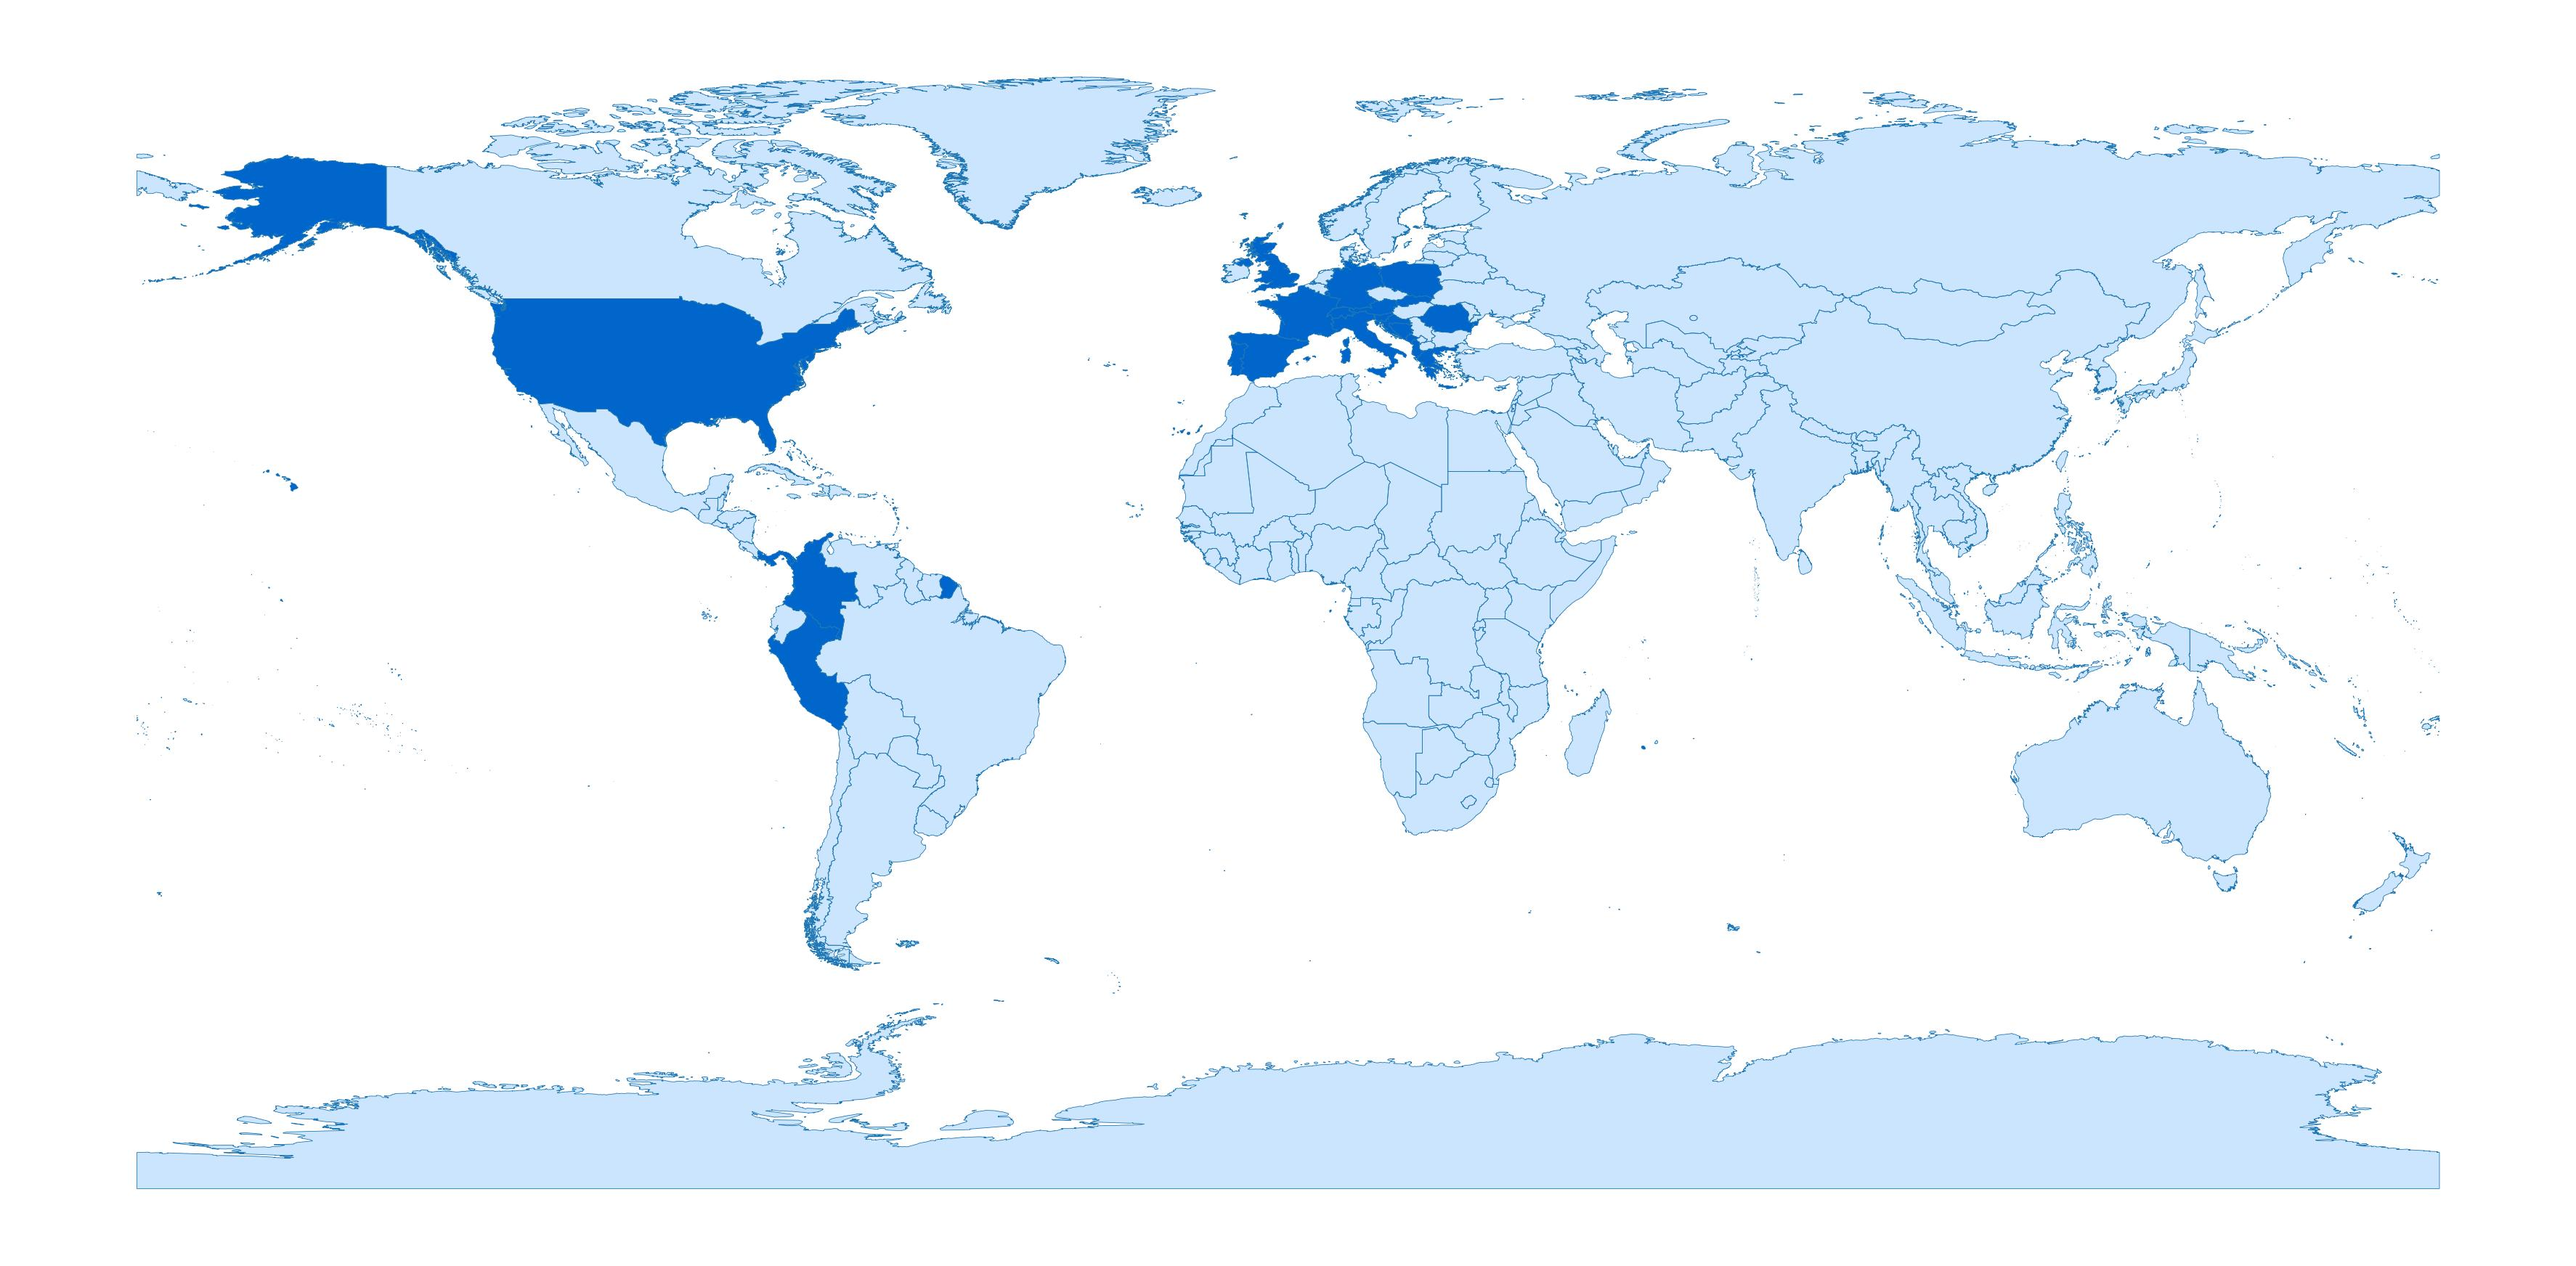
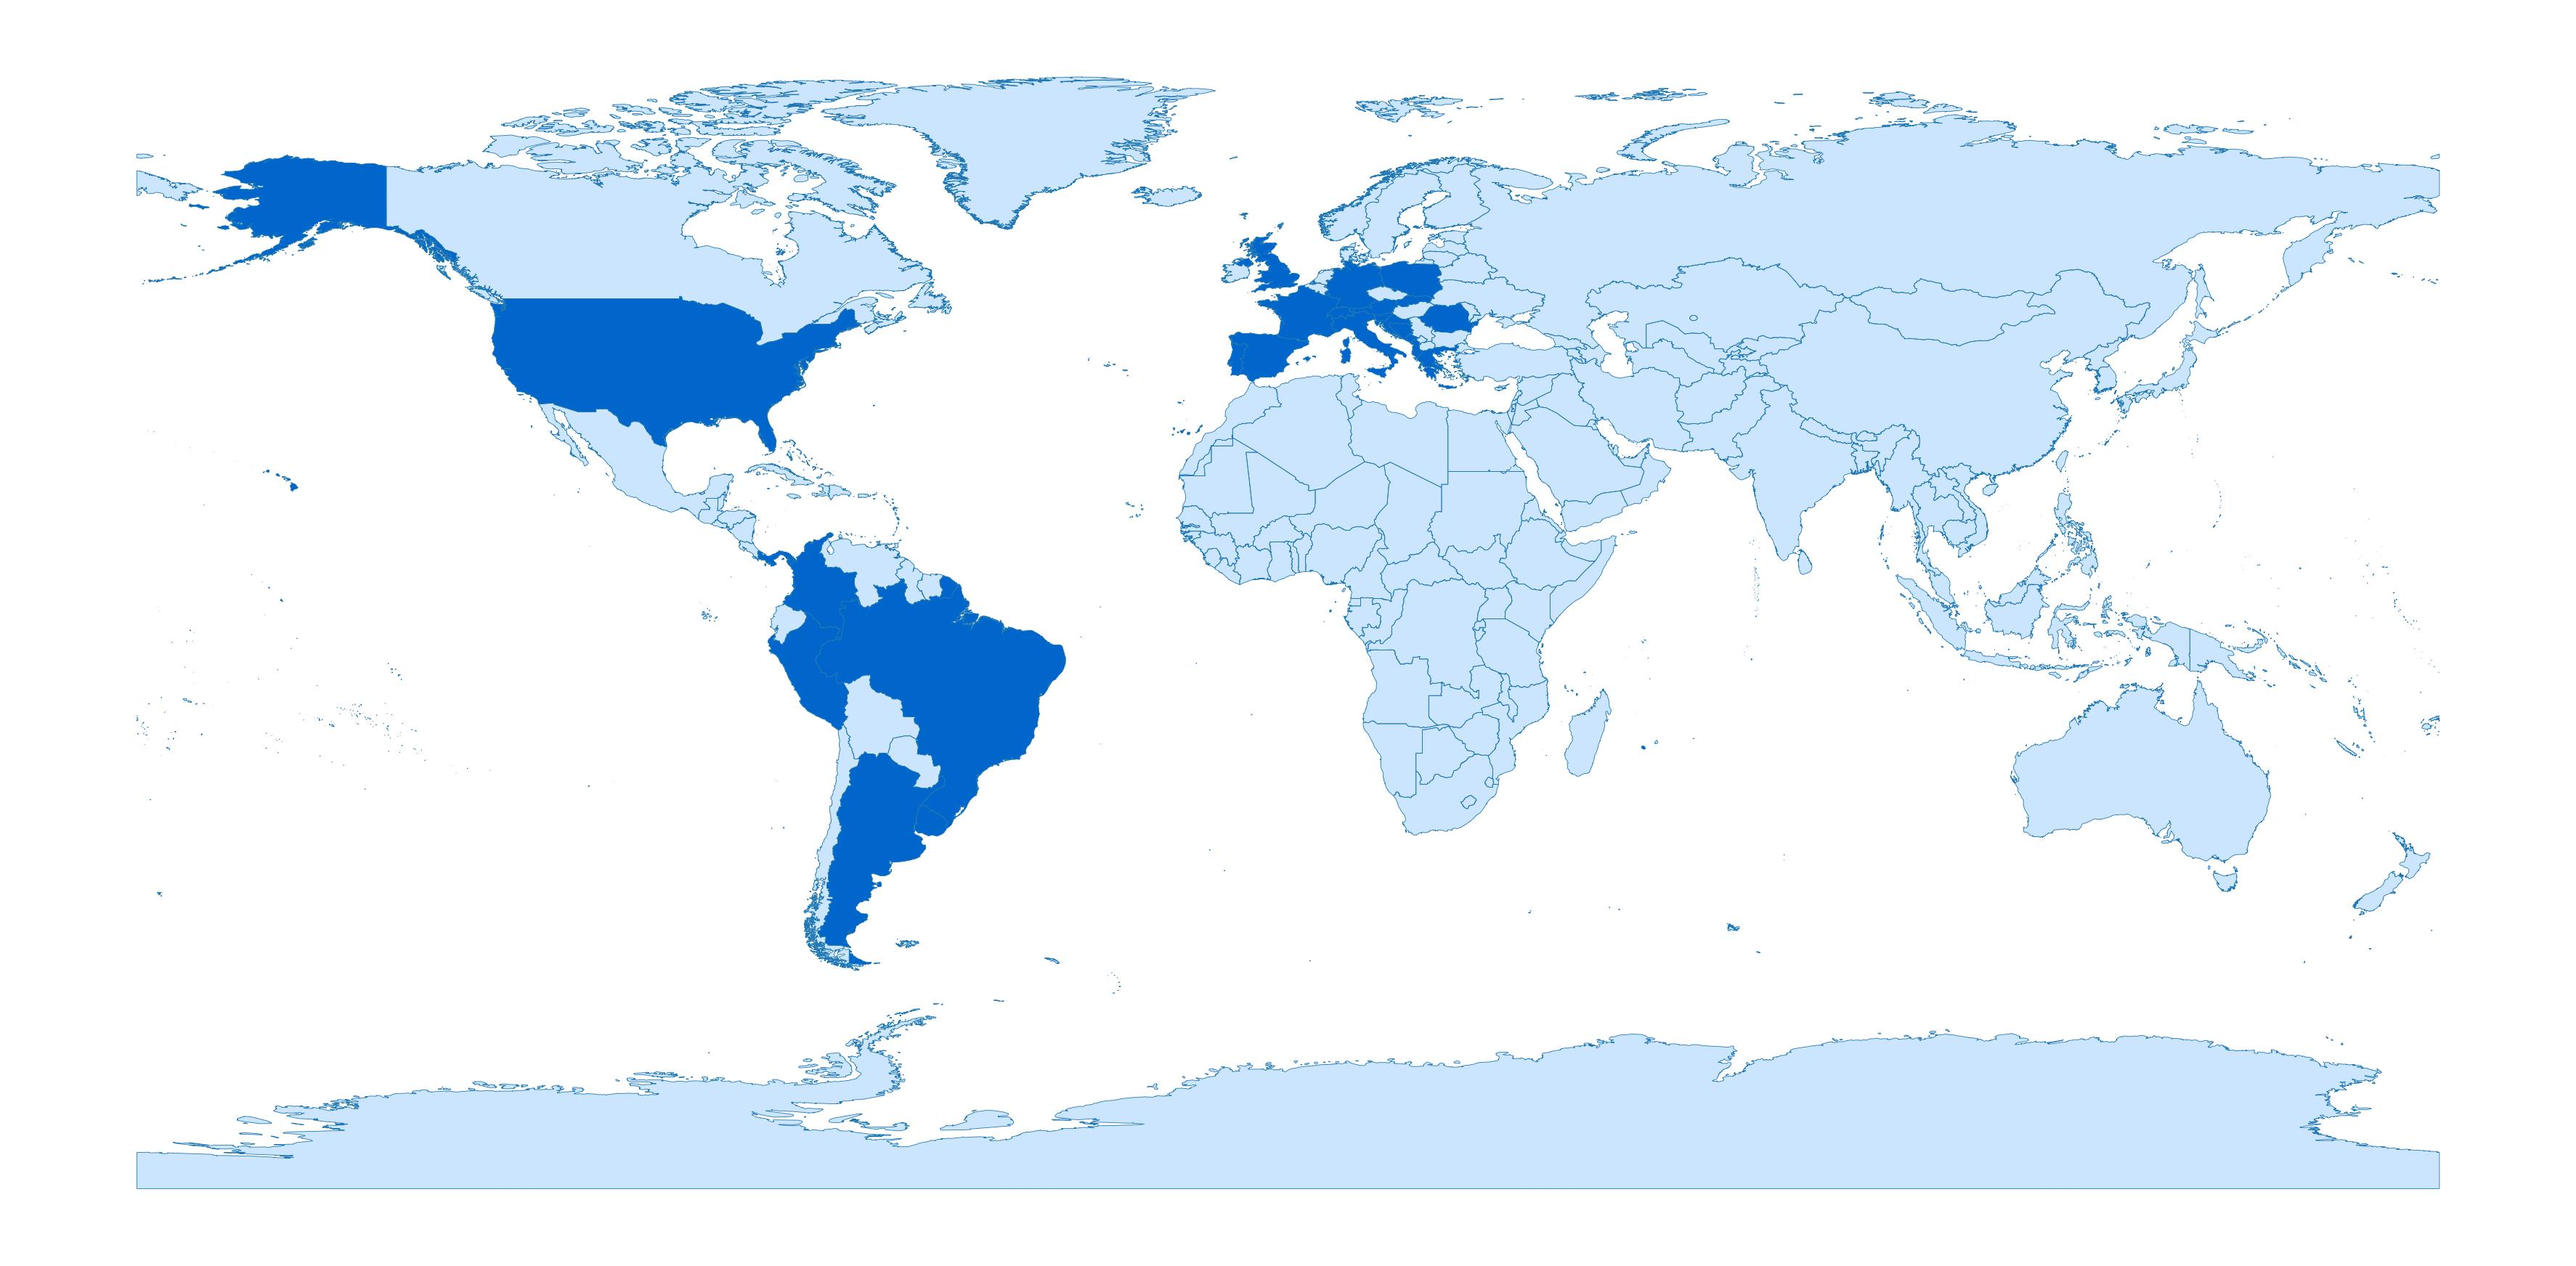
Add Brazil 2025

Changed region(s): [[0.3101, 0.4644, 0.4342, 0.7431]]

diff --git a/travel/022025_poland.html b/travel/022025_poland.html
@@ -1,7 +1,7 @@
 
 <html>
     <header>
-        <title>Le Travel Bug - Poland - February 2025 </title>
+        <title>Le Travel Bug - Rio de Janeiro, Brazil - April 2025 </title>
         <link rel="stylesheet" href="style.css">
         <meta name="viewport" content="width=device-width, initial-scale=1.0">
     </header>
@@ -19,7 +19,7 @@
         <select onchange="this.form.action=this.value; this.form.submit()">
             <option disabled selected>More travels</option>
     
-        <option value='022025_poland.html'>Poland - February 2025</option>
+        <option value='022025_poland.html'>Rio de Janeiro, Brazil - April 2025</option>
         
         <option value='012025_london.html'>London - January 2025</option>
         
@@ -59,69 +59,57 @@
         
         <option value='022018_vienna_bratislava.html'>Vienna and Bratislava - February 2018</option>
         </select></form> </div>
-        <h2>Poland - February 2025</h2>
+        <h2>Rio de Janeiro, Brazil - April 2025</h2>
         <div>
             <div class="image-container">
-                <img src="img/2025/poland/1.JPG" />
+                <img src="img/2025/brazil/1.jpg" />
             </div>    
         
             <div class="image-container">
-                <img src="img/2025/poland/2.JPG" />
+                <img src="img/2025/brazil/2.jpg" />
             </div>    
         
             <div class="image-container">
-                <img src="img/2025/poland/3.JPG" />
+                <img src="img/2025/brazil/3.jpg" />
             </div>    
         
             <div class="image-container">
-                <img src="img/2025/poland/4.JPG" />
+                <img src="img/2025/brazil/4.jpg" />
             </div>    
         
             <div class="image-container">
-                <img src="img/2025/poland/5.JPG" />
+                <img src="img/2025/brazil/5.jpg" />
             </div>    
         
             <div class="image-container">
-                <img src="img/2025/poland/6.JPG" />
+                <img src="img/2025/brazil/6.jpg" />
             </div>    
         
             <div class="image-container">
-                <img src="img/2025/poland/7.JPG" />
+                <img src="img/2025/brazil/7.jpg" />
             </div>    
         
             <div class="image-container">
-                <img src="img/2025/poland/8.JPG" />
+                <img src="img/2025/brazil/8.jpg" />
             </div>    
         
             <div class="image-container">
-                <img src="img/2025/poland/9.JPG" />
+                <img src="img/2025/brazil/9.jpg" />
             </div>    
         
             <div class="image-container">
-                <img src="img/2025/poland/10.JPG" />
+                <img src="img/2025/brazil/10.jpg" />
             </div>    
         
             <div class="image-container">
-                <img src="img/2025/poland/11.JPG" />
+                <img src="img/2025/brazil/11.jpg" />
             </div>    
         
             <div class="image-container">
-                <img src="img/2025/poland/12.JPG" />
-            </div>    
-        
-            <div class="image-container">
-                <img src="img/2025/poland/13.JPG" />
-            </div>    
-        
-            <div class="image-container">
-                <img src="img/2025/poland/14.JPG" />
-            </div>    
-        
-            <div class="image-container">
-                <img src="img/2025/poland/15.JPG" />
+                <img src="img/2025/brazil/12.jpg" />
             </div>    
         </div>
-        <div class="story"><h2>Four Days in Poland: February 2025</h2> <p>In February 2025, we spent four incredible days in <strong>Poland</strong>, immersing ourselves in history, culture, and gastronomy. Our journey began in <strong>Kraków</strong>, where we explored the historic <strong>Jewish Quarter</strong>, admired the stunning architecture of the <strong>Old Town</strong>, and visited the magnificent <strong>Wawel Castle</strong>, where we encountered the legendary <strong>Smoking Dragon</strong>. We also visited some of Kraków’s fascinating museums, diving into the city's rich past. The following day, we ventured underground to the mesmerizing <strong>Wieliczka Salt Mines</strong>, before witnessing the powerful history of <strong>Auschwitz</strong> and <strong>Birkenau</strong>.</p> <p>Our trip continued in <strong>Katowice</strong>, where we explored its mix of industrial heritage and modern art, including visits to some of the city's museums. Along the way, we indulged in incredible Polish cuisine, from traditional pierogi to hearty local specialties, making this trip an unforgettable blend of culture, history, and flavors.</p></div>
+        <div class="story"><h2>10 Days in Rio de Janeiro: A Sun-Soaked Escape</h2> <p>We spent 10 unforgettable days in <strong>Rio de Janeiro</strong>, soaking up the vibrant spirit of the city. From relaxing on the iconic beaches of <strong>Copacabana</strong> and <strong>Ipanema</strong> to witnessing a magical <strong>sunrise at Cristo Redentor</strong>, our trip was packed with memorable moments. We explored the lush <strong>Parque Lage</strong>, admired the colorful <strong>Escadaria Selarón</strong>, rode the cable car to <strong>Pão de Açúcar</strong>, and strolled through charming <strong>Urca</strong>. One evening, we enjoyed an authentic <strong>samba show on Rua do Ouvidor</strong>, immersing ourselves in Rio’s musical soul. Throughout the trip, we delighted in incredible food at local <strong>botecos</strong> and restaurants, and took time to unwind with several laid-back days by the sea.</p></div>
     
         <div>
             <h5>Le Travel Bug - 2025</h5>

diff --git a/travel/index.html b/travel/index.html
@@ -16,9 +16,9 @@
     
                 <div class="index-photo-container mt-10">
                     <div class="index-photo-element ta-c" onclick="location.href='022025_poland.html';" style="cursor: pointer;">
-                        <img class="index-photo" src="img/2025/poland/1.JPG"/>
-                        <h3 class="mb-5"> Poland </h3>
-                        <h6 class="mt-5"> February 2025 </h6>   
+                        <img class="index-photo" src="img/2025/brazil/1.jpg"/>
+                        <h3 class="mb-5"> Rio de Janeiro, Brazil </h3>
+                        <h6 class="mt-5"> April 2025 </h6>   
                     </div>
                     <div class="index-photo-element ta-c" onclick="location.href='012025_london.html';" style="cursor: pointer;">
                         <img class="index-photo" src="img/2025/london/6.JPG"/>

diff --git a/travel/012025_london.html b/travel/012025_london.html
@@ -19,7 +19,7 @@
         <select onchange="this.form.action=this.value; this.form.submit()">
             <option disabled selected>More travels</option>
     
-        <option value='022025_poland.html'>Poland - February 2025</option>
+        <option value='022025_poland.html'>Rio de Janeiro, Brazil - April 2025</option>
         
         <option value='012025_london.html'>London - January 2025</option>
         

diff --git a/travel/022018_vienna_bratislava.html b/travel/022018_vienna_bratislava.html
@@ -19,7 +19,7 @@
         <select onchange="this.form.action=this.value; this.form.submit()">
             <option disabled selected>More travels</option>
     
-        <option value='022025_poland.html'>Poland - February 2025</option>
+        <option value='022025_poland.html'>Rio de Janeiro, Brazil - April 2025</option>
         
         <option value='012025_london.html'>London - January 2025</option>
         

diff --git a/travel/022020_paris.html b/travel/022020_paris.html
@@ -19,7 +19,7 @@
         <select onchange="this.form.action=this.value; this.form.submit()">
             <option disabled selected>More travels</option>
     
-        <option value='022025_poland.html'>Poland - February 2025</option>
+        <option value='022025_poland.html'>Rio de Janeiro, Brazil - April 2025</option>
         
         <option value='012025_london.html'>London - January 2025</option>
         

diff --git a/travel/022024_luxembourg.html b/travel/022024_luxembourg.html
@@ -19,7 +19,7 @@
         <select onchange="this.form.action=this.value; this.form.submit()">
             <option disabled selected>More travels</option>
     
-        <option value='022025_poland.html'>Poland - February 2025</option>
+        <option value='022025_poland.html'>Rio de Janeiro, Brazil - April 2025</option>
         
         <option value='012025_london.html'>London - January 2025</option>
         

diff --git a/travel/042019_colombia.html b/travel/042019_colombia.html
@@ -19,7 +19,7 @@
         <select onchange="this.form.action=this.value; this.form.submit()">
             <option disabled selected>More travels</option>
     
-        <option value='022025_poland.html'>Poland - February 2025</option>
+        <option value='022025_poland.html'>Rio de Janeiro, Brazil - April 2025</option>
         
         <option value='012025_london.html'>London - January 2025</option>
         

diff --git a/travel/042019_peru.html b/travel/042019_peru.html
@@ -19,7 +19,7 @@
         <select onchange="this.form.action=this.value; this.form.submit()">
             <option disabled selected>More travels</option>
     
-        <option value='022025_poland.html'>Poland - February 2025</option>
+        <option value='022025_poland.html'>Rio de Janeiro, Brazil - April 2025</option>
         
         <option value='012025_london.html'>London - January 2025</option>
         

diff --git a/travel/042022_panama.html b/travel/042022_panama.html
@@ -19,7 +19,7 @@
         <select onchange="this.form.action=this.value; this.form.submit()">
             <option disabled selected>More travels</option>
     
-        <option value='022025_poland.html'>Poland - February 2025</option>
+        <option value='022025_poland.html'>Rio de Janeiro, Brazil - April 2025</option>
         
         <option value='012025_london.html'>London - January 2025</option>
         

diff --git a/travel/042024_romania.html b/travel/042024_romania.html
@@ -19,7 +19,7 @@
         <select onchange="this.form.action=this.value; this.form.submit()">
             <option disabled selected>More travels</option>
     
-        <option value='022025_poland.html'>Poland - February 2025</option>
+        <option value='022025_poland.html'>Rio de Janeiro, Brazil - April 2025</option>
         
         <option value='012025_london.html'>London - January 2025</option>
         

diff --git a/travel/052023_cyprus.html b/travel/052023_cyprus.html
@@ -19,7 +19,7 @@
         <select onchange="this.form.action=this.value; this.form.submit()">
             <option disabled selected>More travels</option>
     
-        <option value='022025_poland.html'>Poland - February 2025</option>
+        <option value='022025_poland.html'>Rio de Janeiro, Brazil - April 2025</option>
         
         <option value='012025_london.html'>London - January 2025</option>
         

diff --git a/travel/052024_new_york.html b/travel/052024_new_york.html
@@ -19,7 +19,7 @@
         <select onchange="this.form.action=this.value; this.form.submit()">
             <option disabled selected>More travels</option>
     
-        <option value='022025_poland.html'>Poland - February 2025</option>
+        <option value='022025_poland.html'>Rio de Janeiro, Brazil - April 2025</option>
         
         <option value='012025_london.html'>London - January 2025</option>
         
